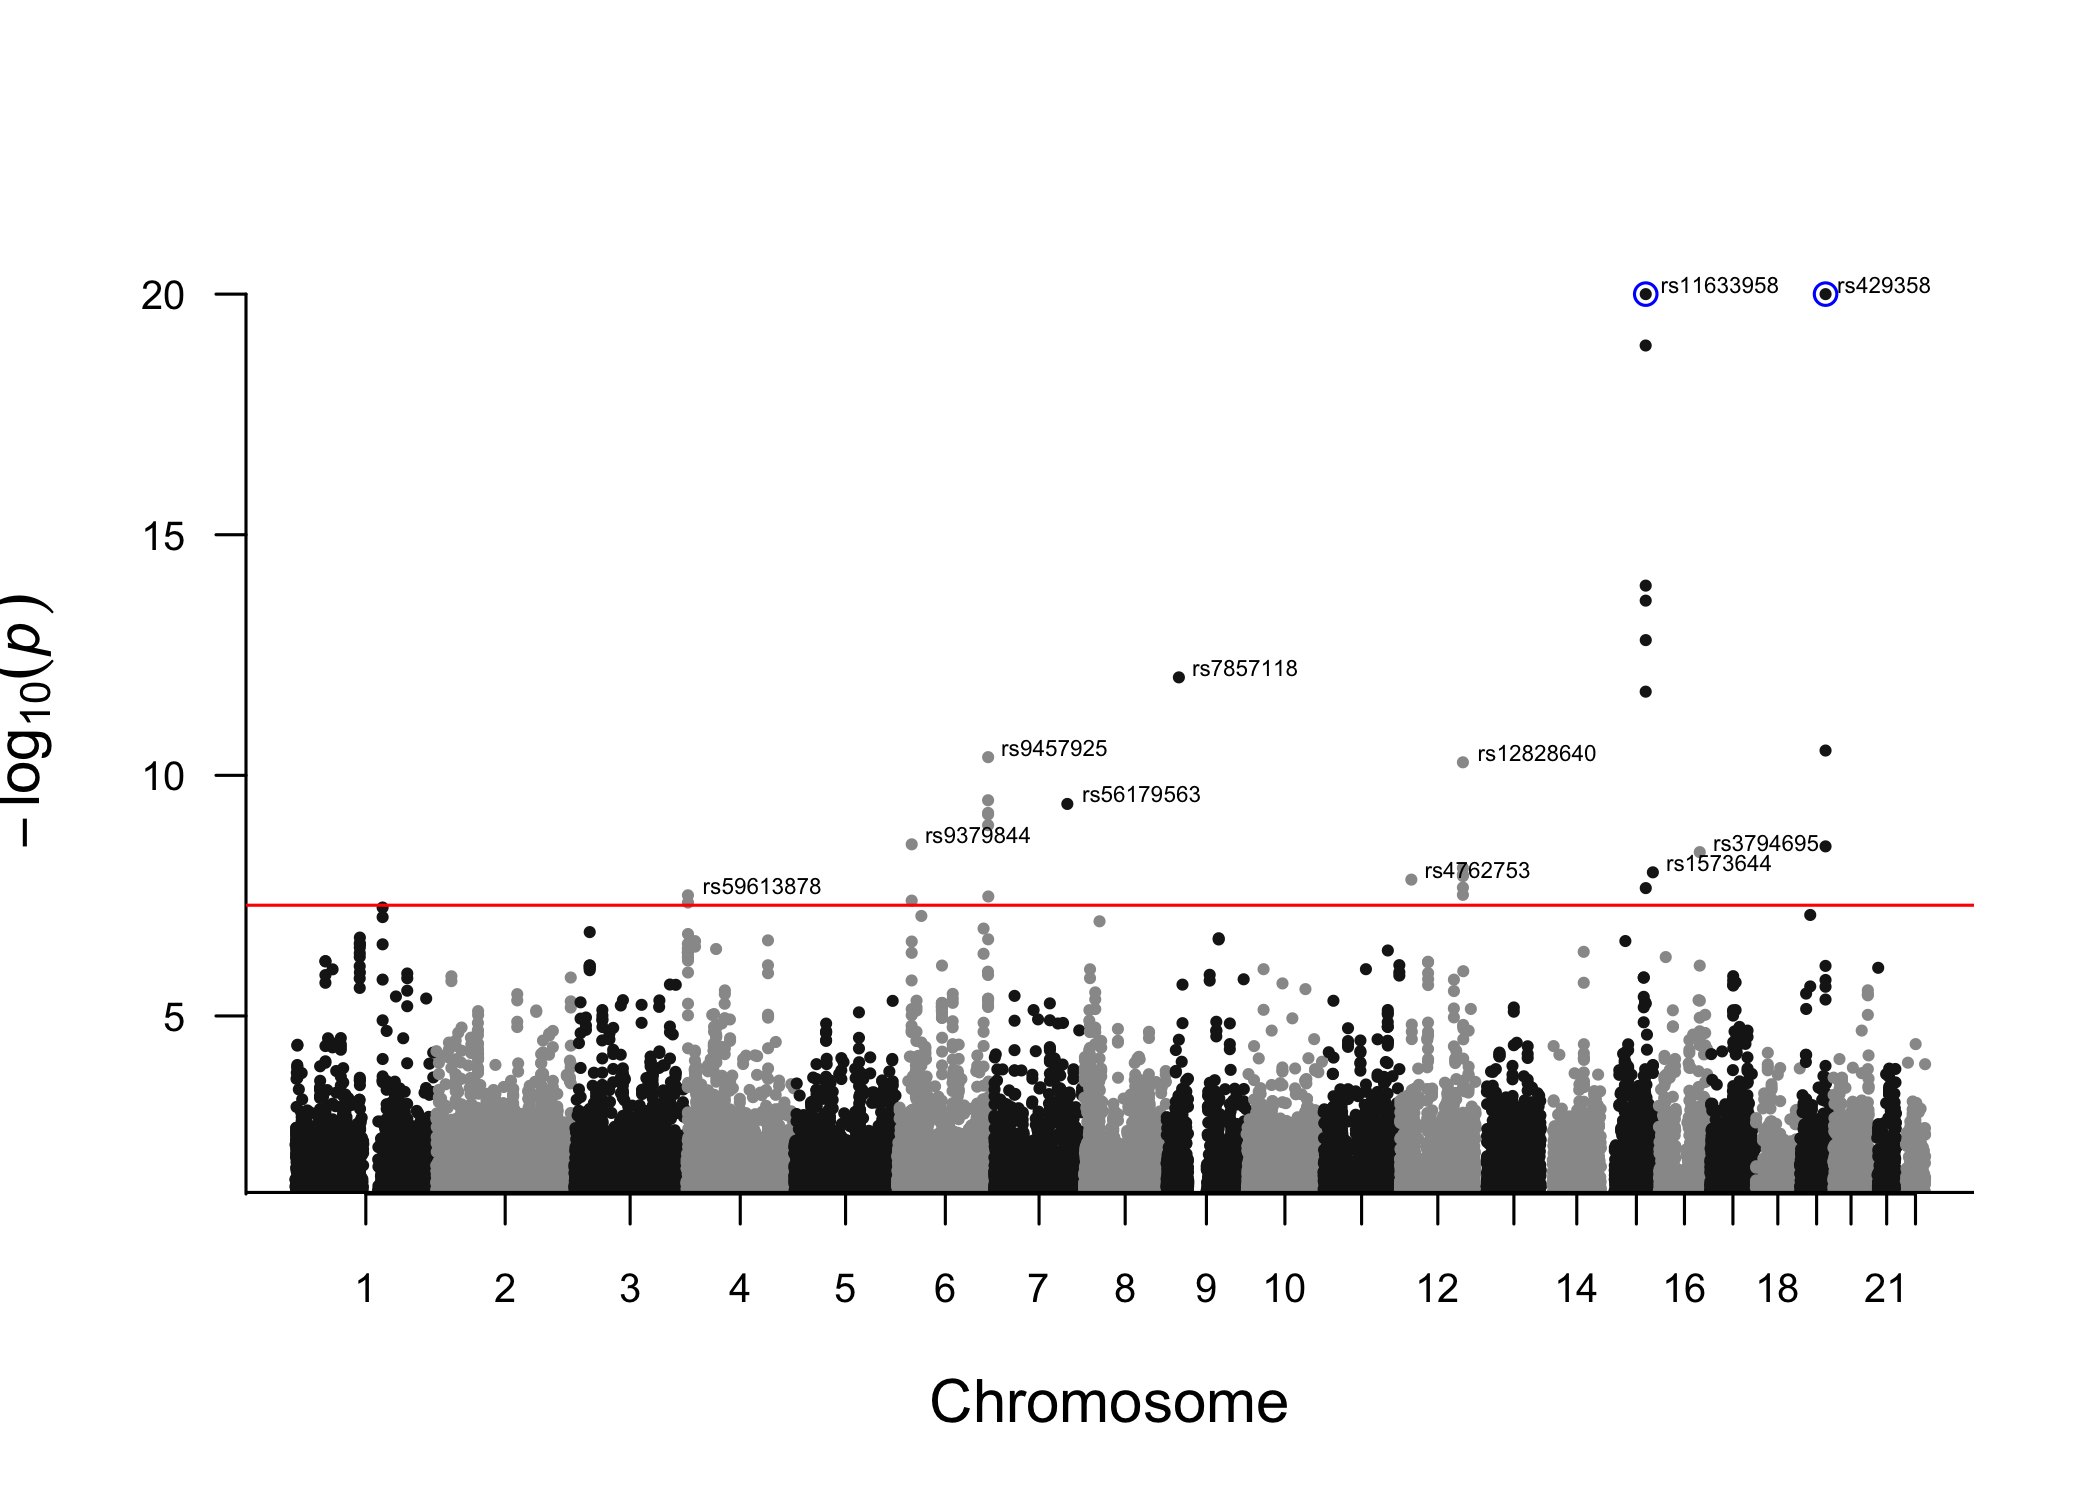
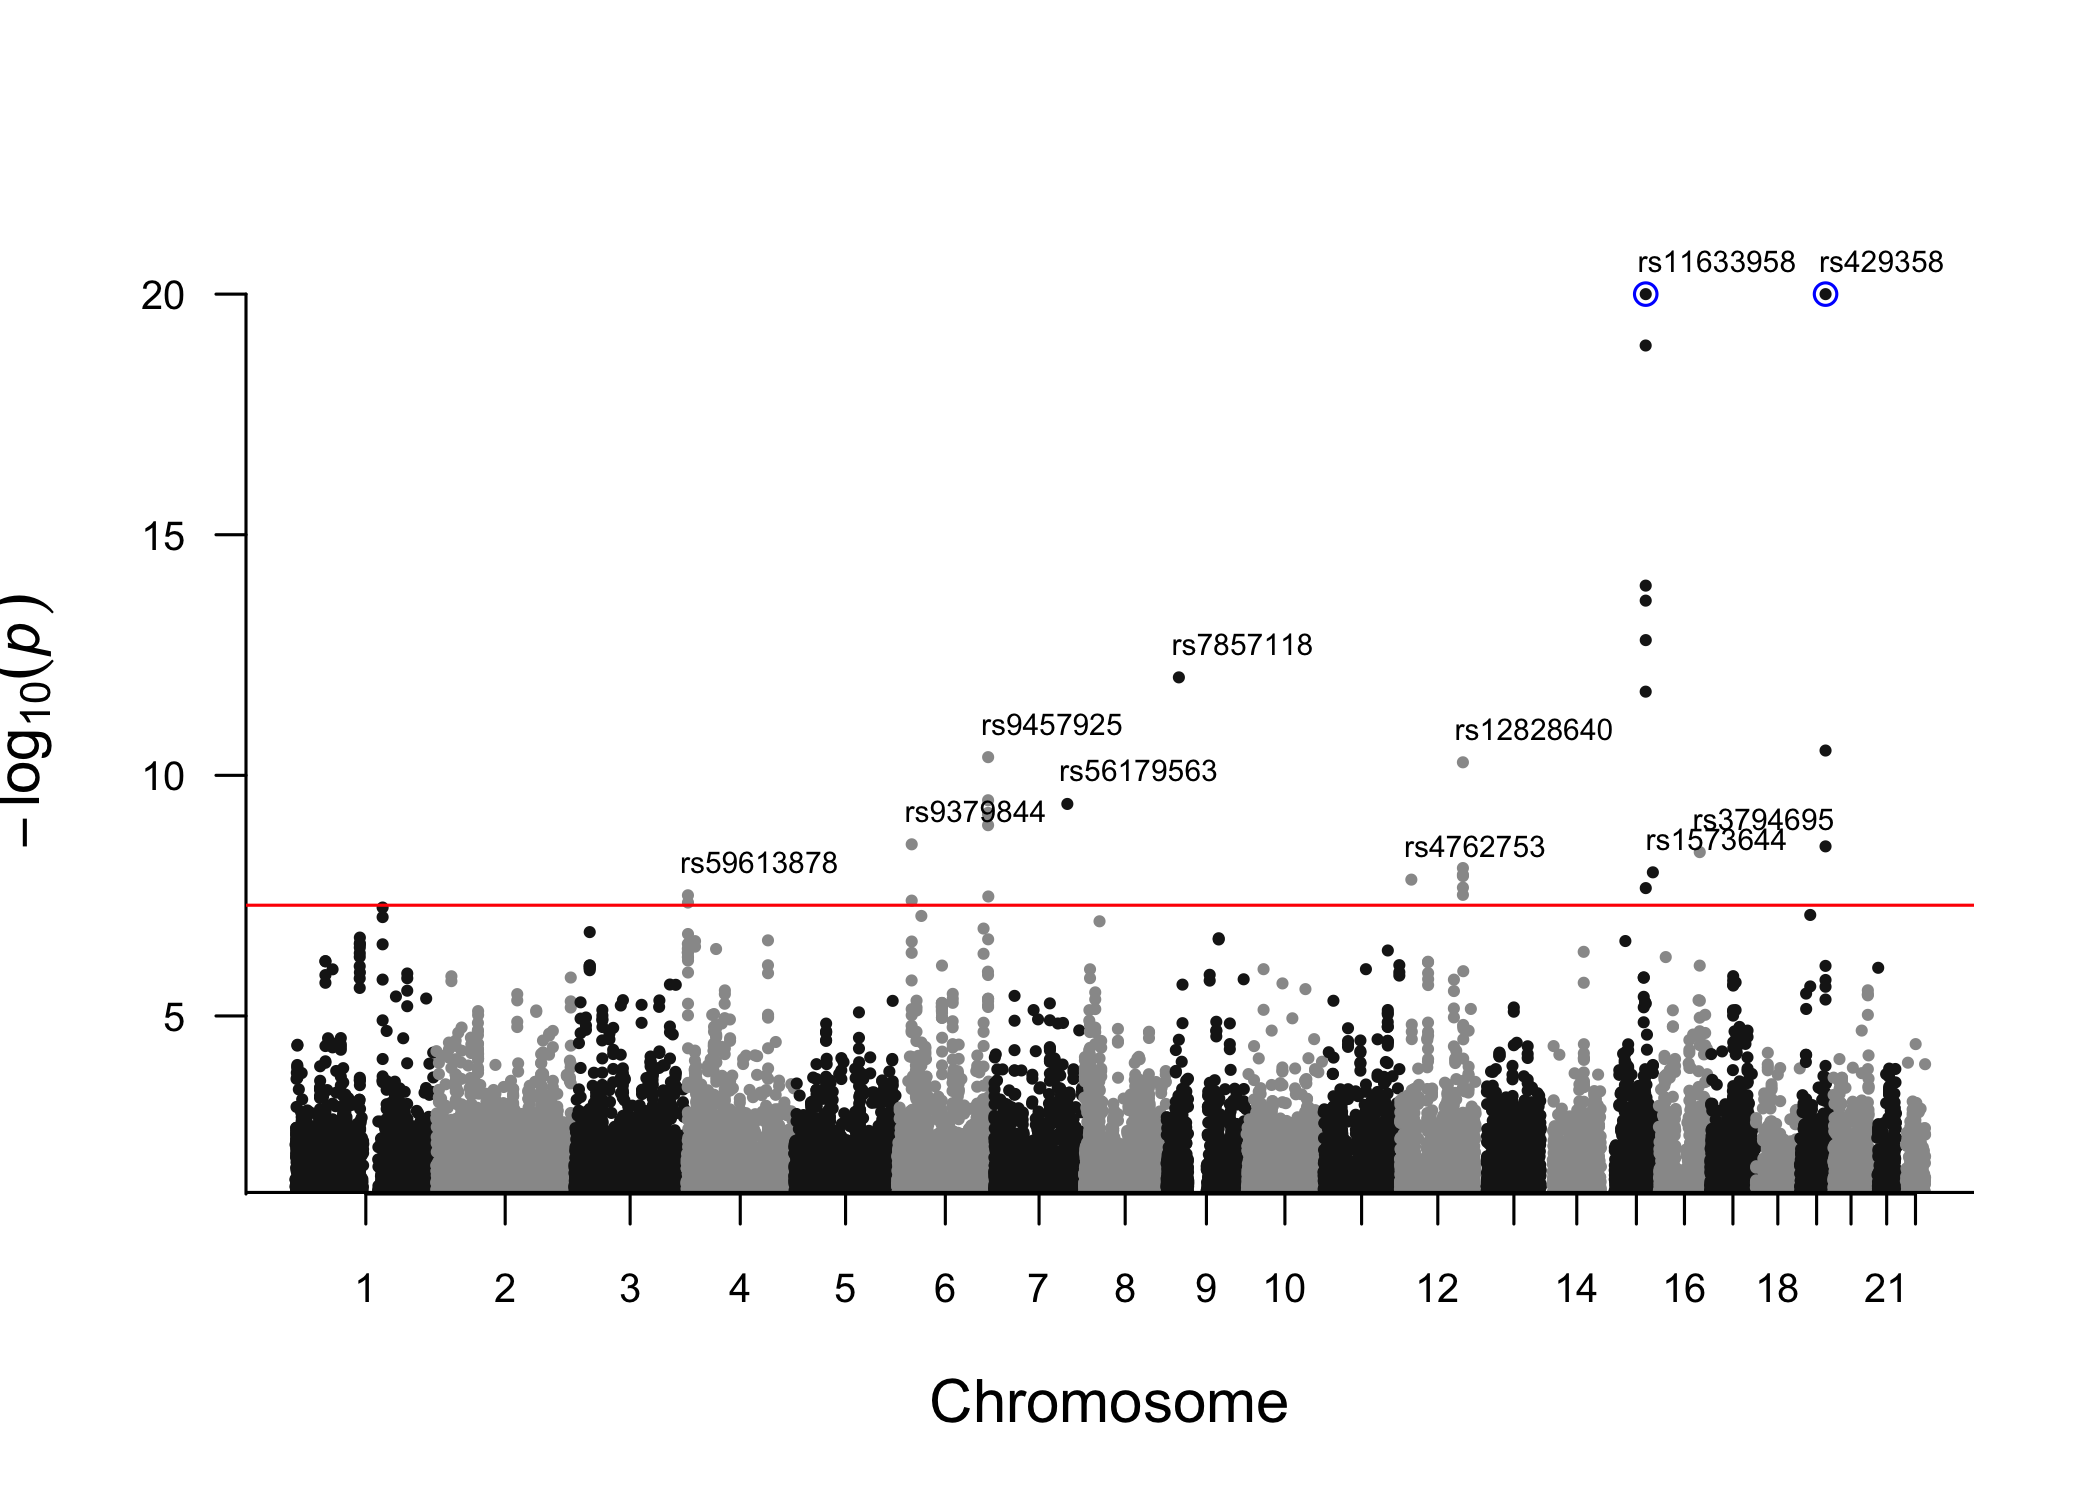
Update Lifespan Analysis

diff --git a/doc/Lifespan_Analysis.md b/doc/Lifespan_Analysis.md
@@ -310,7 +310,7 @@ Lifespan_bGWAS = bGWAS(name = "Lifespan_Timmers2019",
     ## 2 SNPs left 
     ## Done! 
     ## <><><><><><><><><><><><><><><><><><><><><><><><><><><><><><><><><><><><><><><><><><><><>
-    ## Time of the analysis: 22 minute(s) and 29 second(s).
+    ## Time of the analysis: 23 minute(s) and 38 second(s).
 
 We can look at the results more in details.
 
@@ -344,35 +344,35 @@ With this approach, we identified 25:
 
 ``` r
 # all hits
-knitr::kable(extract_results_bGWAS(Lifespan_bGWAS) %>% mutate(BF = as.character(format(BF, scientific=T, digits=3)), BF_p = as.character(format(BF_p, scientific=T, digits=3))), digits=3)
+knitr::kable(extract_results_bGWAS(Lifespan_bGWAS) %>% mutate(BF = as.character(format(BF, scientific=T, digits=3)), BF_p = as.character(format(BF_p, scientific=T, digits=3))) %>% arrange(chrm_UK10K), digits=3)
 ```
 
 | rsid        | chrm\_UK10K | pos\_UK10K | alt | ref |  z\_obs | mu\_prior\_estimate | mu\_prior\_std\_error | BF       | BF\_p    |
 | :---------- | ----------: | ---------: | :-- | :-- | ------: | ------------------: | --------------------: | :------- | :------- |
-| rs429358    |          19 |   45411941 | T   | C   |  19.328 |               1.854 |                 1.217 | 1.59e+54 | 7.52e-80 |
-| rs10455872  |           6 |  161010118 | A   | G   |  10.282 |               2.150 |                 1.157 | 4.25e+16 | 1.27e-26 |
-| rs8042849   |          15 |   78817929 | T   | C   |  10.659 |               0.265 |                 1.105 | 8.57e+13 | 5.24e-23 |
-| rs11065979  |          12 |  112059557 | T   | C   | \-7.128 |             \-2.227 |                 1.220 | 5.48e+08 | 9.74e-16 |
-| rs2891168   |           9 |   22098619 | A   | G   |   6.601 |               2.327 |                 1.241 | 4.99e+07 | 3.52e-14 |
-| rs11066188  |          12 |  112610714 | A   | G   | \-6.524 |             \-1.846 |                 1.215 | 1.34e+07 | 2.64e-13 |
-| rs8039305   |          15 |   91422543 | T   | C   |   6.414 |               1.473 |                 1.129 | 2.65e+06 | 3.27e-12 |
-| rs138175288 |          19 |   11189980 | A   | C   |   5.733 |               3.305 |                 1.189 | 2.60e+06 | 3.36e-12 |
-| rs12924886  |          16 |   72075593 | A   | T   |   5.679 |               2.455 |                 1.116 | 6.65e+05 | 2.88e-11 |
-| rs61348208  |           4 |    3089564 | T   | C   |   5.823 |               1.479 |                 1.106 | 2.22e+05 | 1.66e-10 |
 | rs1230666   |           1 |  114173410 | A   | G   | \-5.805 |             \-1.433 |                 1.116 | 1.96e+05 | 2.01e-10 |
-| rs12302980  |          12 |  111360290 | A   | G   | \-5.750 |             \-1.390 |                 1.138 | 1.59e+05 | 2.82e-10 |
-| rs56179563  |           7 |  129685597 | A   | G   |   5.190 |               2.881 |                 1.165 | 1.49e+05 | 3.14e-10 |
 | rs646776    |           1 |  109818530 | T   | C   | \-4.908 |             \-4.822 |                 1.236 | 1.07e+05 | 5.36e-10 |
 | rs6719980   |           2 |     651507 | T   | C   | \-5.407 |             \-1.906 |                 1.143 | 1.03e+05 | 5.66e-10 |
-| rs9393691   |           6 |   26272829 | T   | C   | \-5.570 |             \-1.565 |                 1.107 | 9.97e+04 | 5.98e-10 |
 | rs1275922   |           2 |   26932887 | A   | G   | \-5.817 |             \-0.850 |                 1.111 | 5.95e+04 | 1.37e-09 |
-| rs59234174  |           9 |   16730258 | T   | C   | \-5.127 |             \-1.492 |                 1.107 | 1.76e+04 | 9.90e-09 |
-| rs6558008   |           8 |   27438306 | A   | C   | \-5.424 |             \-0.890 |                 1.106 | 1.61e+04 | 1.14e-08 |
-| rs62477737  |           7 |   75162278 | A   | G   | \-5.269 |             \-1.088 |                 1.110 | 1.43e+04 | 1.39e-08 |
-| rs66720652  |          12 |   20582640 | A   | T   | \-5.347 |             \-0.937 |                 1.110 | 1.38e+04 | 1.46e-08 |
-| rs7742789   |           6 |   43345803 | T   | C   | \-5.299 |             \-0.984 |                 1.110 | 1.30e+04 | 1.63e-08 |
-| rs10465231  |           9 |   92183413 | T   | C   | \-5.156 |             \-0.985 |                 1.109 | 8.00e+03 | 3.58e-08 |
 | rs7599488   |           2 |   60718347 | T   | C   | \-4.663 |             \-1.956 |                 1.114 | 6.86e+03 | 4.60e-08 |
+| rs61348208  |           4 |    3089564 | T   | C   |   5.823 |               1.479 |                 1.106 | 2.22e+05 | 1.66e-10 |
+| rs10455872  |           6 |  161010118 | A   | G   |  10.282 |               2.150 |                 1.157 | 4.25e+16 | 1.27e-26 |
+| rs9393691   |           6 |   26272829 | T   | C   | \-5.570 |             \-1.565 |                 1.107 | 9.97e+04 | 5.98e-10 |
+| rs7742789   |           6 |   43345803 | T   | C   | \-5.299 |             \-0.984 |                 1.110 | 1.30e+04 | 1.63e-08 |
+| rs56179563  |           7 |  129685597 | A   | G   |   5.190 |               2.881 |                 1.165 | 1.49e+05 | 3.14e-10 |
+| rs62477737  |           7 |   75162278 | A   | G   | \-5.269 |             \-1.088 |                 1.110 | 1.43e+04 | 1.39e-08 |
+| rs6558008   |           8 |   27438306 | A   | C   | \-5.424 |             \-0.890 |                 1.106 | 1.61e+04 | 1.14e-08 |
+| rs2891168   |           9 |   22098619 | A   | G   |   6.601 |               2.327 |                 1.241 | 4.99e+07 | 3.52e-14 |
+| rs59234174  |           9 |   16730258 | T   | C   | \-5.127 |             \-1.492 |                 1.107 | 1.76e+04 | 9.90e-09 |
+| rs10465231  |           9 |   92183413 | T   | C   | \-5.156 |             \-0.985 |                 1.109 | 8.00e+03 | 3.58e-08 |
+| rs11065979  |          12 |  112059557 | T   | C   | \-7.128 |             \-2.227 |                 1.220 | 5.48e+08 | 9.74e-16 |
+| rs11066188  |          12 |  112610714 | A   | G   | \-6.524 |             \-1.846 |                 1.215 | 1.34e+07 | 2.64e-13 |
+| rs12302980  |          12 |  111360290 | A   | G   | \-5.750 |             \-1.390 |                 1.138 | 1.59e+05 | 2.82e-10 |
+| rs66720652  |          12 |   20582640 | A   | T   | \-5.347 |             \-0.937 |                 1.110 | 1.38e+04 | 1.46e-08 |
+| rs8042849   |          15 |   78817929 | T   | C   |  10.659 |               0.265 |                 1.105 | 8.57e+13 | 5.24e-23 |
+| rs8039305   |          15 |   91422543 | T   | C   |   6.414 |               1.473 |                 1.129 | 2.65e+06 | 3.27e-12 |
+| rs12924886  |          16 |   72075593 | A   | T   |   5.679 |               2.455 |                 1.116 | 6.65e+05 | 2.88e-11 |
+| rs429358    |          19 |   45411941 | T   | C   |  19.328 |               1.854 |                 1.217 | 1.59e+54 | 7.52e-80 |
+| rs138175288 |          19 |   11189980 | A   | C   |   5.733 |               3.305 |                 1.189 | 2.60e+06 | 3.36e-12 |
 | rs12459965  |          19 |   18452195 | T   | C   |   4.426 |               2.781 |                 1.121 | 6.55e+03 | 4.96e-08 |
 
 ``` r
@@ -402,28 +402,33 @@ threshold of 5e-8 to call significance).
 Using the previous version (Timmers et al), we identified… 
 
 ``` r
-manhattan_plot_bGWAS(Lifespan_bGWAS)
+# For the plots, we will use only the new hits
+my_SNPs = tibble(
+        rs = c("rs646776", "rs6719980", "rs7599488", "rs7742789", "rs56179563", "rs62477737", "rs6558008", "rs59234174", "rs10465231", "rs66720652", "rs12459965"),
+        gene = c("CELSR2/PSRC1", "TMEM18", "BCL11A", "ZNF318/ABCC10", "ZC3HC1", "POM21C", "EPHX2/CLU", "BNC2", "GADD45G", "PDE3A", "LSM4/PGPEP1"))
+
+manhattan_plot_bGWAS(Lifespan_bGWAS, SNPs=my_SNPs)
 ```
 
 <img src="Figures/Lifespan_v1.0.0-results3-1.png" width="100%" />
 
 ``` r
+my_SNPs %>%
+  mutate(color="#932735") -> my_SNPs
 heatmap_bGWAS(Lifespan_bGWAS)
 ```
 
 <img src="Figures/Lifespan_v1.0.0-results4-1.png" width="100%" />
 
-**FIX SIZE OF LABELS : NOT ALL SNPs RSIDS ARE PLOTTED, NOTHING IS
-ALIGNED\!\!\!\!**
-
-Some traits have higher contribution to prior effects in general
-(everything except height and T2D). Overall, lot of red (makes sense,
-SNPs aligned to be life-lengthening, we expect positive contributions to
-prior). Still, some SNPs with large contribution of one trait -\> can
-compensate smaller contributions in the other direction for other traits
-& look at the large significant negative effect on LDL (compensated by a
-significant positive effect on BP). And some SNPs with small effect (in
-the right direction) on most of the traits (pleiotropic effects).
+Overall, lot of red (makes sense, SNPs aligned to be life-lengthening,
+we expect positive contributions to prior). Among these 11 new variants,
+4 were known to be associated with at least one of the RFs (variant near
+CELSR2/PSRC1 associated with LDL cholesterol, variants near TMEM18 and
+LSM4/PGPEP1 associated with Body Mass Index, variant near BCL11A
+associated with Years of Schooling). 7 variants (near ZNF318, ZC3HC1,
+POM21C, EPHX2/CLU, BNC2, GADD45G and PDE3A) have not been previously
+associated with any of the RFs, suggesting that they could be acting on
+lifespan through smaller pleiotropic effects on several RFs
 
 ## Results - Direct Effects
 
@@ -440,4 +445,4 @@ knitr::kable(extract_results_bGWAS(Lifespan_bGWAS, results="direct")  %>% mutate
 | rs8042849 |          15 |   78817929 | T   | C   | 10.659 |               10.395 |                  1.490 |     6.976 | 3.04e-12  |
 
 APOE (highly pleiotropic, not capturing everything) + CHRNA (smoking not
-included) + LPA (?)
+included)
